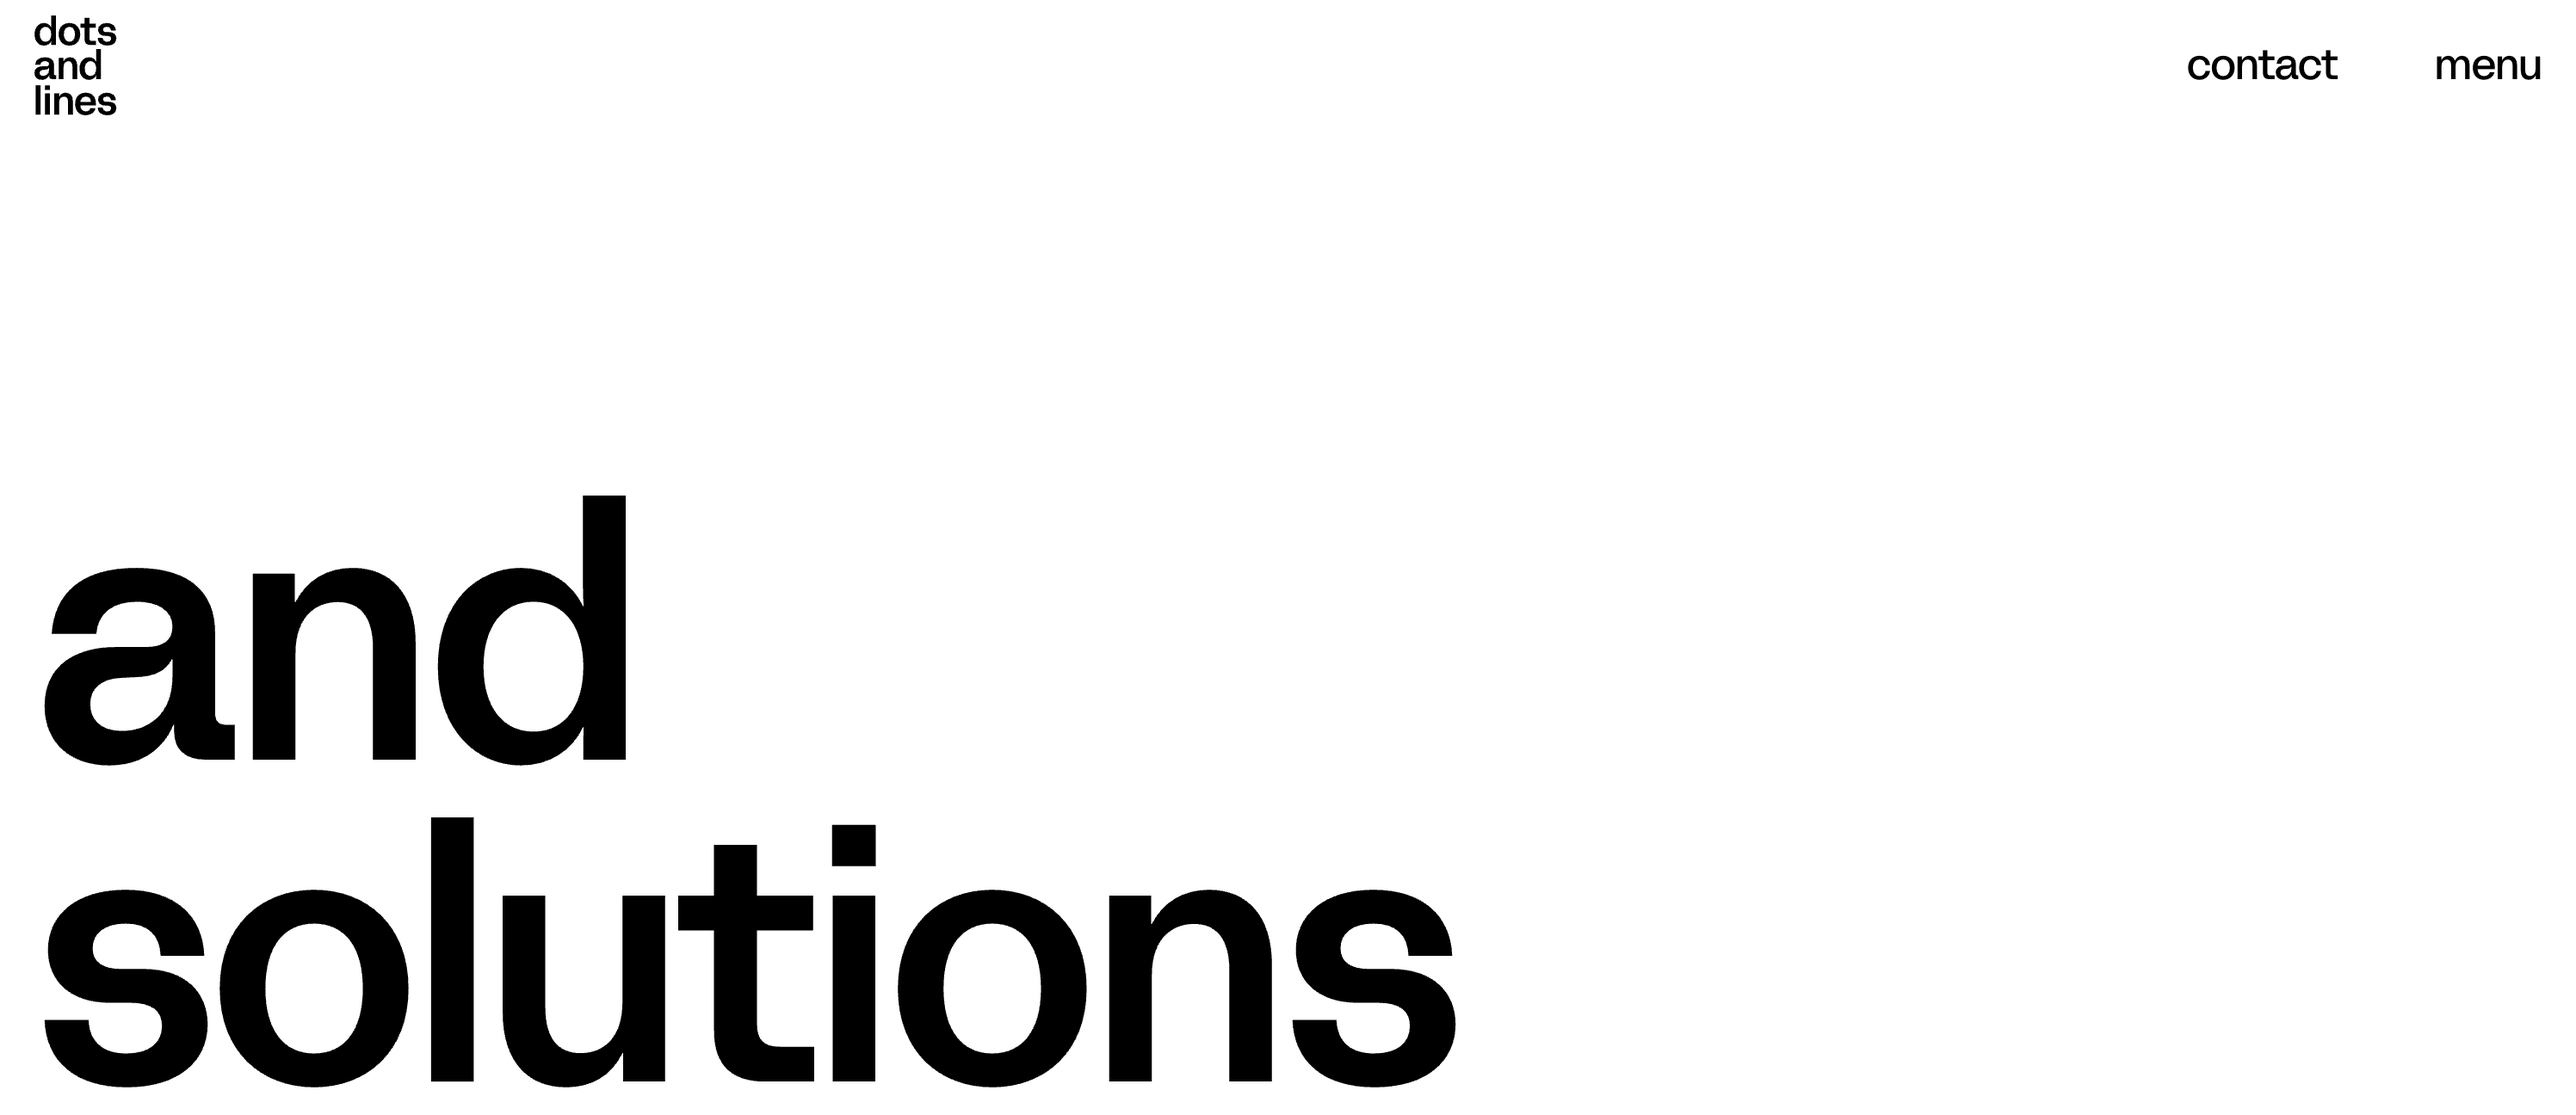
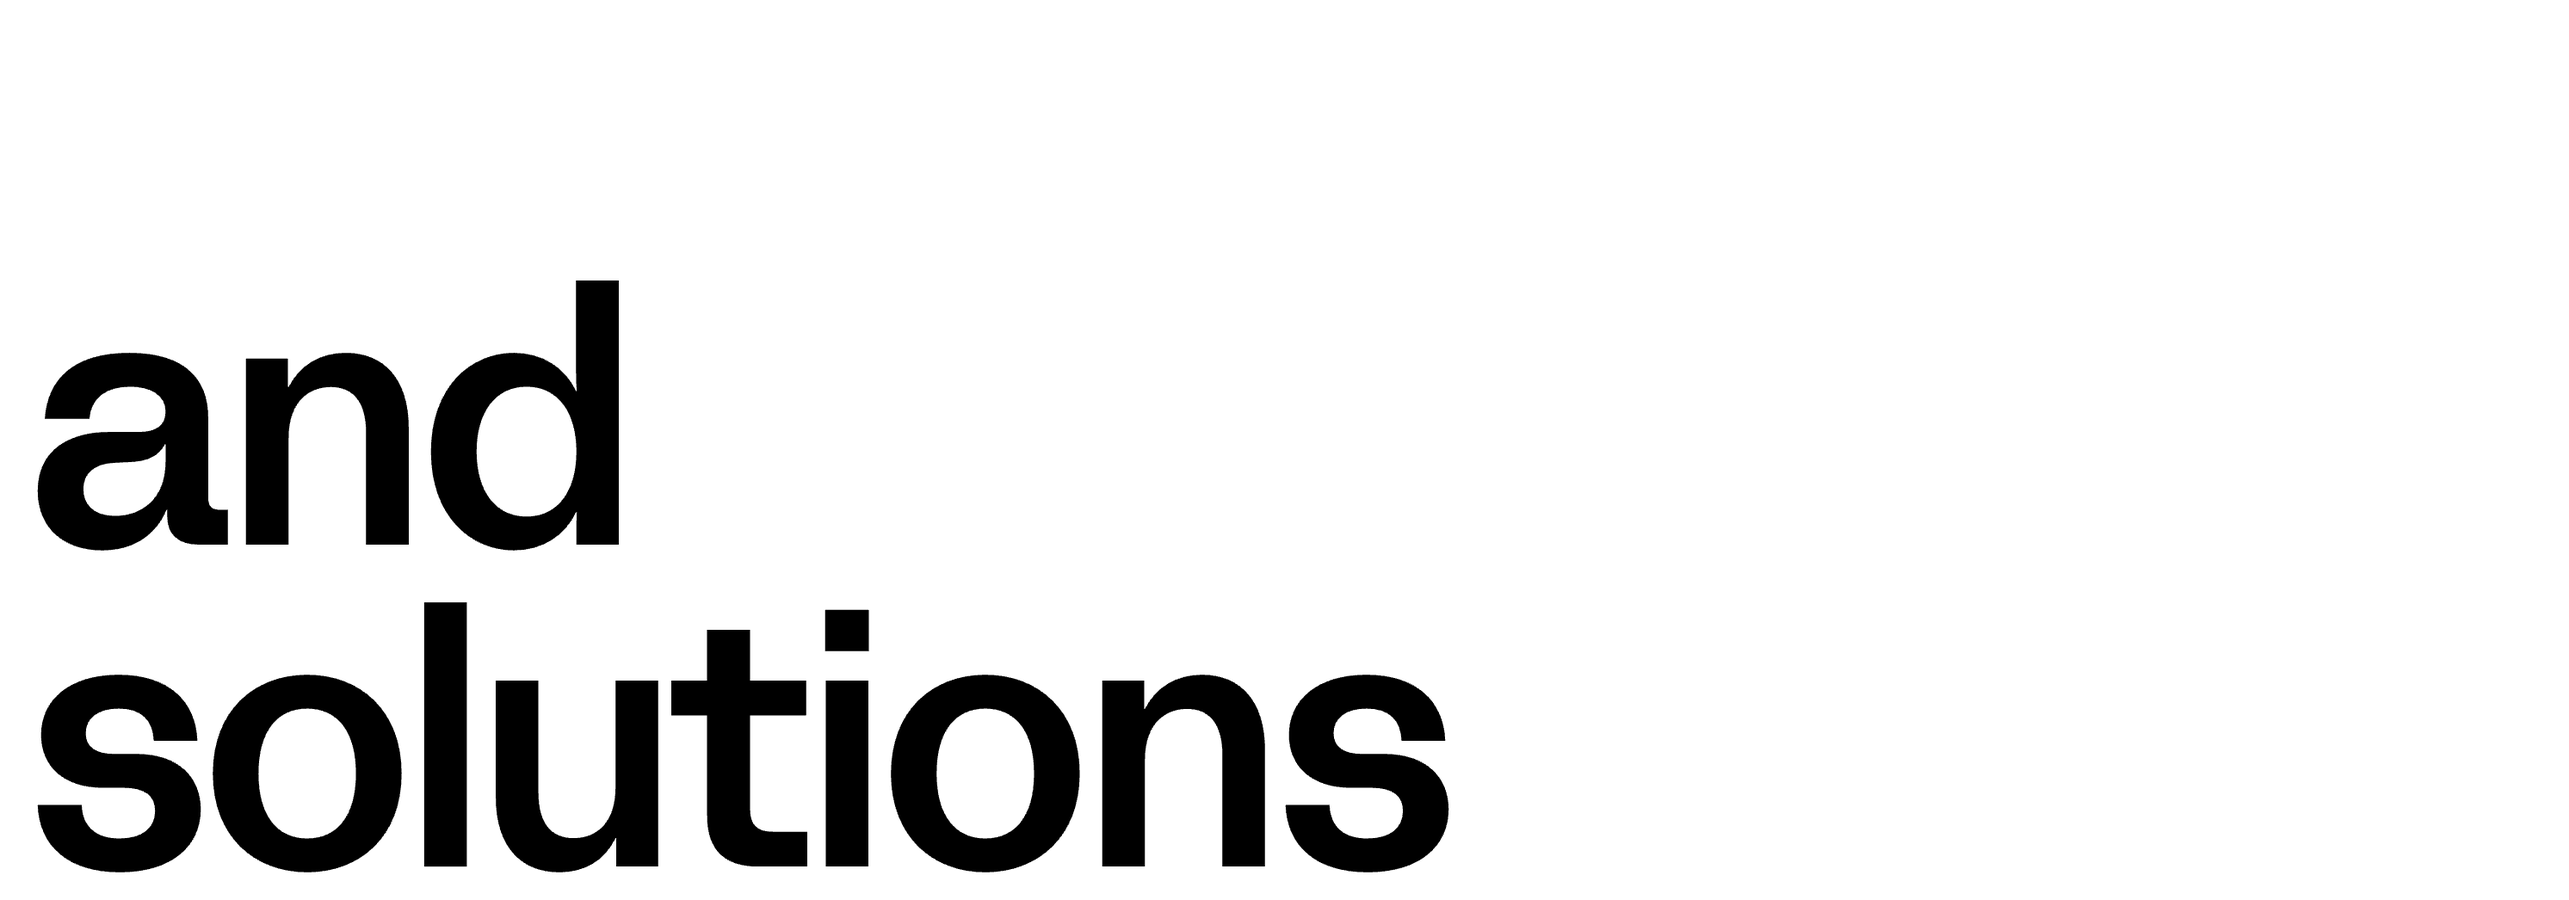
cover

diff --git a/components/index.html b/components/index.html
@@ -15,6 +15,7 @@
   <body>
     <h1 class="page__heading">Web Components</h1>
 
+<!-- TYPOGRAPHY -->
     <h2>Typography Default</h2>
     <article class="components">
         <h3 class="components__name">body</h3>
@@ -30,6 +31,8 @@
     </div>
     </article>
 
+<!-- COMPONENTS -->
+<!-- COMPONENTS HEADING -->
     <article class="components">
         <h3 class="components__name">heading (h1, h2, h3...)</h3>
         <div class="components__img">
@@ -39,33 +42,123 @@
             <img srcset="img/head2.png 2x" src="img/head4.png" alt="Heading 4"/>
         </div>
         <div class="components__code">
-            <h1>and solutions</h1>
+            <h1>and<br>solutions</h1>
             <h2>Was wir machen</h2>
             <h3>List Holding</h3>
             <h4>Worauf wir stolz sind</h4>
     </div>
     </article>
 
-    <article class="navbar">
+<!-- COMPONENTS MAIN NAV-->
+    <article class="components">
         <h3 class="components__name">Nav Bar</h3>
         <div class="components__img">
-        <img srcset="img/main-nav.png 2x" src="img/main_nav.png" alt="Nav Bar"/>
+            <img srcset="img/main_nav.png 2x" src="img/main_nav.png" alt="Nav Bar"/>
         </div>
         <div class="components__code">
-        <div class="main-nav">
-        <nav class="main-nav__container">
-            <div class="main-nav__logo">
-                <span>dots</span><br>
-                <span>and</span><br>
-                <span>lines</span>
+            <div class="main-nav">
+                <nav class="main-nav__container">
+                    <div class="main-nav__logo">
+                        <span>dots</span><br>
+                        <span>and</span><br>
+                        <span>lines</span>
+                    </div>
+                    <div class="main-nav__menu">
+                    <a href="#">contact</a>
+                    <a href="#">menu</a>
+                    </div>
+                </nav>
             </div>
-            <div class="main-nav__menu">
-            <a href="#">contact</a>
-            <a href="#">menu</a>
-            </div>
-        </nav>
-        </div>
         </div>
     </article>
+
+<!-- COMPONENTS HERO-->
+<article class="components">
+        <h3 class="components__name">Hero</h3>
+        <div class="components__img">
+            <img srcset="img/cover_section1.png 2x" src="img/cover_section1.png" alt="Hero"/>
+        </div>
+        <div class="components__code">
+            <div class="hero__title-wrap">
+            <div class="hero__static">and</div>
+            <div class="hero__viewport">
+                <div class="hero__word-track">
+                <span>dots</span>
+                <span>lines</span>
+                <span>strategy</span>
+                <span>identity</span>
+                <span>experience</span>
+                <span>technology</span>
+                <span>activation</span>
+                <span>solutions</span>
+                </div>
+            </div>
+            </div>
+            </div>
+    </article>
+
+<!-- COMPONENTS COVER-->
+    <article class="components">
+        <h3 class="components__name">Cover</h3>
+        <div class="components__img">
+            <img srcset="img/cover_section3.png 2x" src="img/cover_section3.png" alt="Cover"/>
+        </div>
+        <div class="components__code">
+            <img class="cover__img" src="../../dotsandlines-case-study/img/video_placement.png" alt="Video Placement"/>
+            <p class="cover__text">Wir gestaltenLösungen für Menschen, Marken & digitale Produkte.</p>
+        </div>
+    </article>
+
+    <!-- COMPONENTS CLIENT STRIP-->
+    <article class="components">
+        <h3 class="components__name">Client Strip</h3>
+        <div class="components__img">
+            <img srcset="img/client_list.png 2x" src="img/client_list.png" alt="Client List"/>
+        </div>
+        <div class="components__code">
+            <p class="client__list-title">Ausgewählte Kund:innen</p>
+        </div>
+    </article>
+
+
+<!-- COMPONENTS CURSOR-->
+    <article class="components">
+        <h3 class="components__name">Trailing Cursor</h3>
+        <div class="components__img">
+            <img srcset="img/cursordot.png 2x" src="img/cursordot.png" alt="Trailing Cursor"/>
+        </div>
+        <div class="components__code">
+            <div class="cursor"></div>
+            <p> Please move your cursor around to see effect</p>
+        </div>
+    </article>
+
+
+<script>
+const cursor = document.querySelector('.cursor');
+
+let mouseX = 0;
+let mouseY = 0;
+
+let posX = 0;
+let posY = 0;
+
+window.addEventListener('mousemove', (e) => {
+  mouseX = e.clientX;
+  mouseY = e.clientY;
+});
+
+function animate() {
+  posX += (mouseX - posX) * 0.08;
+  posY += (mouseY - posY) * 0.08;
+
+  cursor.style.left = posX + 'px';
+  cursor.style.top = posY + 'px';
+
+  requestAnimationFrame(animate);
+}
+
+animate();
+</script>
   </body>
 </html>

diff --git a/css/main.css b/css/main.css
@@ -25,7 +25,7 @@ h1, h2, h3, h4 {
 }
 
 h1 {
-    font-size: 25rem;
+    font-size: 7rem;
     font-weight: 650;
 }
 
@@ -53,9 +53,11 @@ img {
     font-size: 2rem;
     font-weight: 550;
 }
+
 /**
 *Components
 */
+
 .components__name {
     font-size: 2rem;
     font-weight: 550;
@@ -76,6 +78,10 @@ img {
     margin: 20px;
     padding: 10px;
 }
+
+/**
+*Components - NAVBAR
+*/
 
 .main-nav {
     width: 100%;
@@ -113,4 +119,84 @@ img {
 
 .main-nav__menu a:hover {
   text-decoration: underline;
+}
+
+/**
+*Components - HERO
+*/
+.hero__title-wrap {
+  display: flex;
+  align-items: center;
+  gap: 1rem;
+  font-family: Inter, sans-serif;
+}
+
+.hero__static {
+  font-size: 6rem;
+  font-weight: 600;
+}
+
+.hero__viewport {
+  height: 6rem;
+  overflow: hidden;
+  position: relative;
+}
+
+.hero__word-track {
+  display: flex;
+  flex-direction: column;
+
+  animation: slideUp 6s cubic-bezier(0.22, 1, 0.36, 1) forwards;
+}
+
+.hero__word-track span {
+  font-size: 6rem;
+  font-weight: 600;
+  line-height: 1;
+}
+
+/* KEY ANIMATION */
+@keyframes slideUp {
+  0% {
+    transform: translateY(0%);
+  }
+  100% {
+    transform: translateY(-87.5%);
+  }
+}
+/**
+*Components - COVER
+*/
+.cover__text {
+    font-size: 7rem;
+    font-weight: 650;
+}
+
+.cover__img {
+  width: 100%;
+  height: auto;
+  max-height: 80vh;
+  object-fit: cover;
+  display: block;
+}
+
+/**
+*Components - CLIENT STRIP
+*/
+
+
+/**
+*Components - CURSOR
+*/
+
+.cursor {
+  position: fixed;
+  top: 0;
+  left: 0;
+  width: 30px;
+  height: 30px;
+  background: black;
+  border-radius: 50%;
+  pointer-events: none;
+  transform: translate(-50%, -50%);
 }
